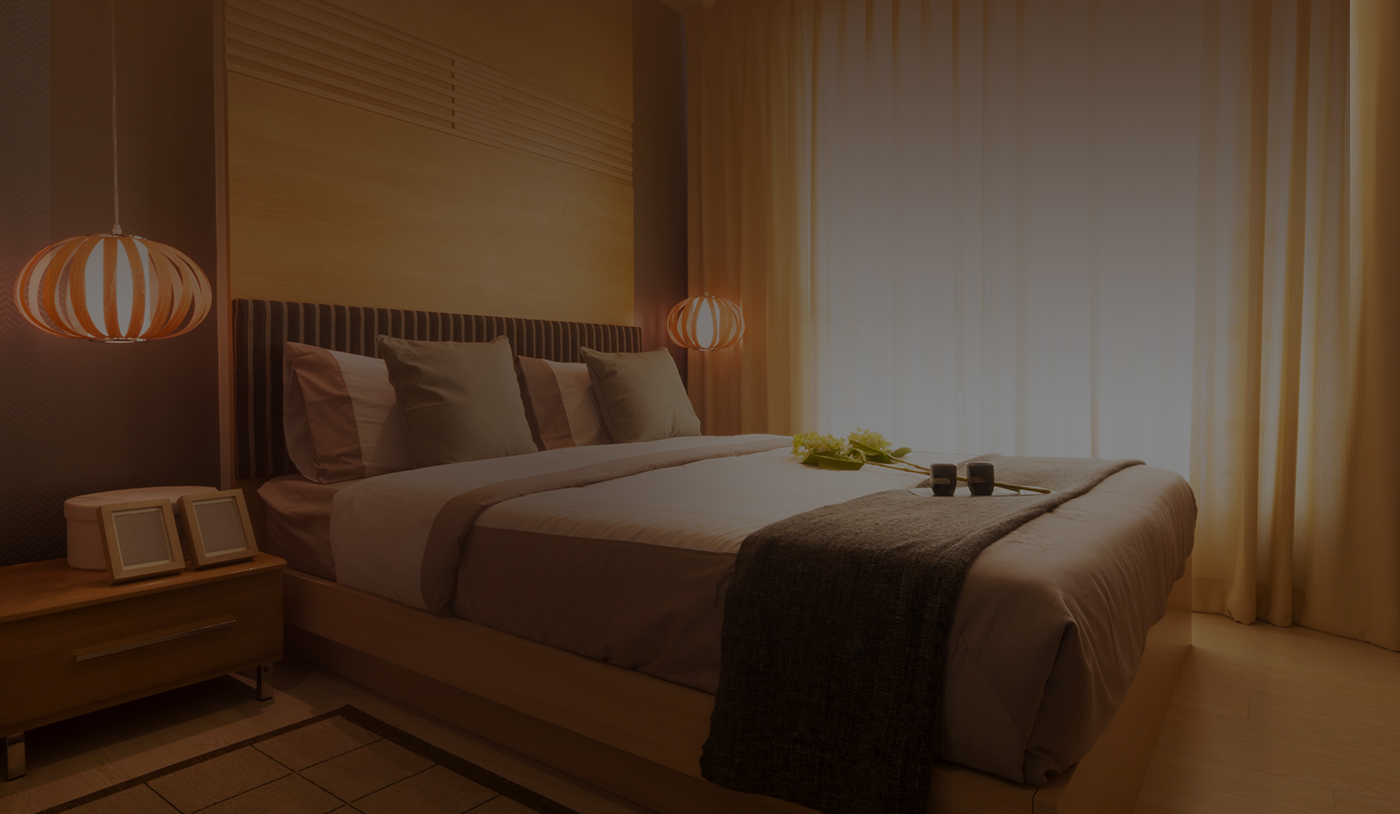
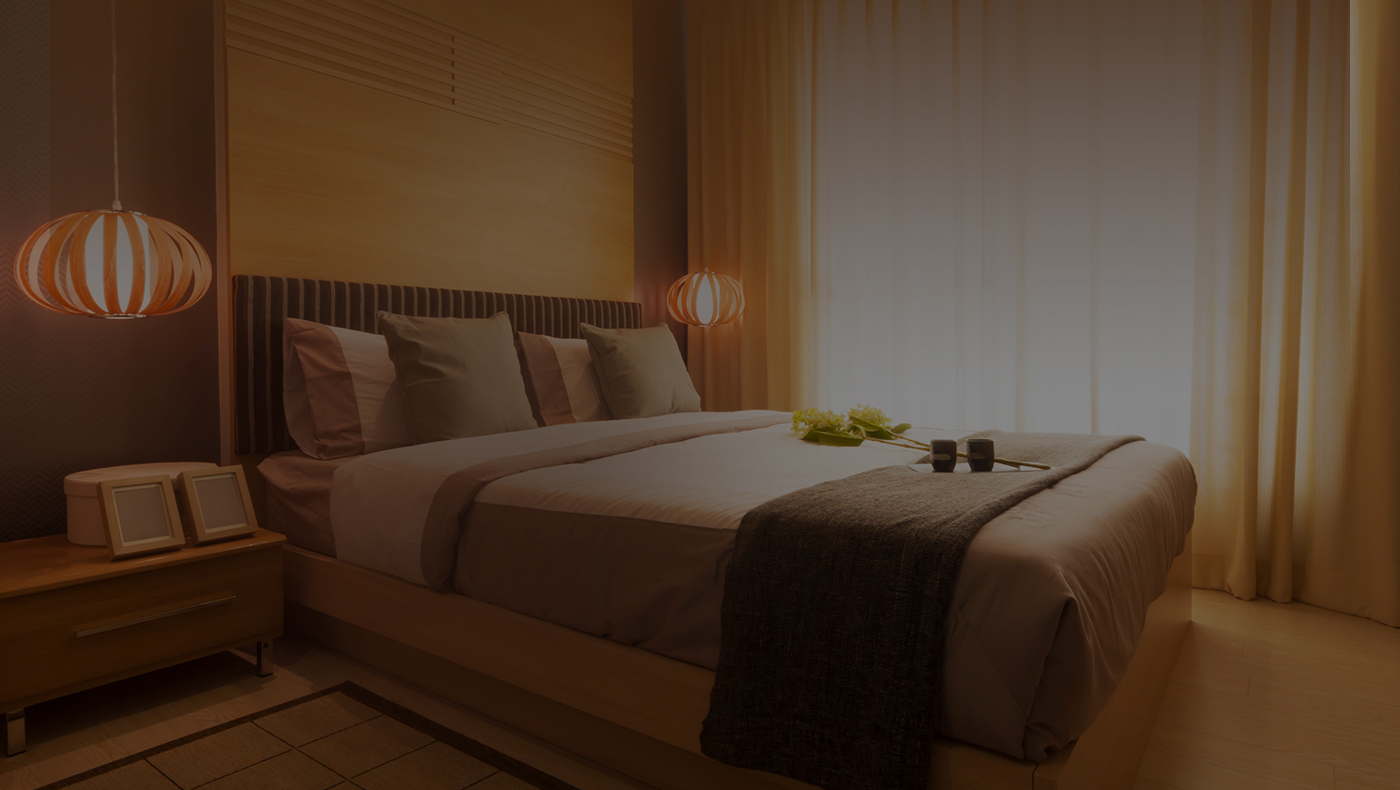
Внес небольшие правки, начал использовать pixel perfect

diff --git a/index.html b/index.html
@@ -2,45 +2,55 @@
 <html>
     <head>
         <meta charset="utf-8">
-        <link href="https://fonts.googleapis.com/css?family=Open+Sans:600" rel="stylesheet">
+        <link href="https://fonts.googleapis.com/css?family=Open+Sans:600,300" rel="stylesheet">
         <link rel="stylesheet" type="text/css" href="https://cdnjs.cloudflare.com/ajax/libs/materialize/0.98.0/css/materialize.min.css">
         <link rel="stylesheet" type="text/css" href="./less/app.css">
         <script src=""></script>
     </head>
     <body>
-        <section class="header">
-            <div class="content-wrapper">
-                <header class="top-header-element">
-                    <div class="container container-full">
-                        <div class="row">
-                            <div class="col l2">
-                                <a class="header-logo" href="/" title="beshitza.ru">
-                                    <img src="./img/tmp/logo_header.jpg">
-                                </a>
-                            </div>
-                            <div class="header-menu col l8">
-                                <navn class="menu">
-                                    <li class="item"><a href="#1">отель</a></li>
-                                    <li class="item"><a href="#1">номера</a></li>
-                                    <li class="item"><a href="#1">ресторан</a></li>
-                                    <li class="item"><a href="#1">фитнес-клуб</a></li>
-                                </navn>
-                            </div>
-                            <div class="col l2 lang-switcher">
-                                <a>
-                                    in english
-                                </a>
+        <div class="content">
+            <section class="header">
+                <div class="content-wrapper">
+                    <header class="top-header-element">
+                        <div class="container container-90">
+                            <div class="row">
+                                <div class="col l4">
+                                    <a class="header-logo" href="/" title="beshitza.ru">
+                                        <img src="./img/tmp/logo_header.jpg">
+                                    </a>
+                                </div>
+                                <div class="header-menu col l5">
+                                    <nav class="menu">
+                                        <li class="item"><a href="#1">отель</a></li>
+                                        <li class="item"><a href="#1">номера</a></li>
+                                        <li class="item"><a href="#1">ресторан</a></li>
+                                        <li class="item"><a href="#1">фитнес-клуб</a></li>
+                                    </nav>
+                                </div>
+                                <div class="lang-switcher col l3">
+                                    <a>
+                                        in english
+                                    </a>
+                                </div>
                             </div>
                         </div>
-                    </div>
-                </header>
-            </div>
-        </section>
-        <section class="main">
-            <div class="content-wrapper">
-                <img class="bg" src="./img/tmp/top-bg.jpg">
-            </div>
-        </section>
+                    </header>
+                </div>
+            </section>
+            <section class="main">
+                <div class="content-wrapper">
+                    <img class="bg" src="./img/tmp/top-bg.jpg">
+                </div>
+            </section>
+            <section class="service">
+                <div class="content-wrapper">
+                    <img class="bg" src="./img/tmp/section2-bg.jpg">
+                </div>
+            </section>
 
+        </div>
+        <footer>
+
+        </footer>
     </body>
 </html>

diff --git a/less/app.css b/less/app.css
@@ -141,8 +141,24 @@ table {
   position: relative;
   white-space: nowrap;
 }
+.top-header-element .lang-switcher {
+  font-family: "Open Sans", serif;
+  font-weight: 300;
+  text-transform: uppercase;
+  height: 50px;
+  line-height: 50px;
+  text-align: center;
+  padding-left: 132px;
+}
+.top-header-element .lang-switcher a {
+  color: white;
+  font-size: 12px;
+}
 .top-header-element .header-logo {
   font-size: 0;
+  overflow: hidden;
+  display: inline-block;
+  margin-left: 159px;
 }
 .top-header-element .header-menu {
   display: inline-block;
@@ -150,7 +166,19 @@ table {
   height: 50px;
   line-height: 50px;
   font-family: 'Open Sans', sans-serif;
+  font-weight: 600;
   text-transform: uppercase;
+  font-size: 14px;
+}
+.top-header-element .header-menu nav.menu {
+  background: none;
+  margin-left: -16px;
+}
+.top-header-element .header-menu nav.menu a {
+  font-size: 14px;
+  padding: 0 26.1px;
+  display: inline-block;
+  height: 100%;
 }
 .top-header-element .header-menu a {
   color: white;
@@ -159,11 +187,14 @@ table {
 section.header {
   background-color: #110a05;
 }
+section.main {
+  height: 772px;
+}
 .content-wrapper {
   position: relative;
   margin: 0 auto;
   font-size: 0;
-  width: 1205px;
+  width: 1400px;
 }
 .content-wrapper .container * {
   font-size: initial;
@@ -181,4 +212,13 @@ section .bg {
   position: absolute;
   top: 0;
   left: 0;
+}
+footer {
+  flex: 0 0 auto;
+}
+body > .content {
+  flex: 1 0 auto;
+}
+.container.container-90 {
+  width: 90%;
 }

diff --git a/less/include/sections/top-header.less b/less/include/sections/top-header.less
@@ -5,9 +5,26 @@
   height: @top-header-height;
   position: relative;
 
+  .lang-switcher {
+    font-family: "Open Sans", serif;
+    font-weight: 300;
+    text-transform: uppercase;
+    height: @top-header-height;
+    line-height: @top-header-height;
+    text-align: center;
+    padding-left: 132px;
+    a {
+      color: white;
+      font-size: 12px;
+    }
+  }
+
   white-space: nowrap;
   .header-logo {
     font-size: 0;
+    overflow: hidden;
+    display: inline-block;
+    margin-left: 159px;
   }
   .header-menu {
     display: inline-block;
@@ -15,7 +32,20 @@
     height: @top-header-height;
     line-height: @top-header-height;
     font-family: 'Open Sans', sans-serif;
+    font-weight: 600;
     text-transform: uppercase;
+    font-size: 14px;
+    nav.menu {
+      background: none;
+      margin-left: -16px;
+      a {
+        font-size: 14px;
+        padding: 0 26.1px;
+        display: inline-block;
+        height: 100%;
+      }
+    }
+
     a {
       color: white;
       padding: 0 20px;

diff --git a/less/include/sections/top-header.css b/less/include/sections/top-header.css
@@ -8,8 +8,24 @@
   position: relative;
   white-space: nowrap;
 }
+.top-header-element .lang-switcher {
+  font-family: "Open Sans", serif;
+  font-weight: 300;
+  text-transform: uppercase;
+  height: 50px;
+  line-height: 50px;
+  text-align: center;
+  padding-left: 132px;
+}
+.top-header-element .lang-switcher a {
+  color: white;
+  font-size: 12px;
+}
 .top-header-element .header-logo {
   font-size: 0;
+  overflow: hidden;
+  display: inline-block;
+  margin-left: 159px;
 }
 .top-header-element .header-menu {
   display: inline-block;
@@ -17,7 +33,19 @@
   height: 50px;
   line-height: 50px;
   font-family: 'Open Sans', sans-serif;
+  font-weight: 600;
   text-transform: uppercase;
+  font-size: 14px;
+}
+.top-header-element .header-menu nav.menu {
+  background: none;
+  margin-left: -16px;
+}
+.top-header-element .header-menu nav.menu a {
+  font-size: 14px;
+  padding: 0 26.1px;
+  display: inline-block;
+  height: 100%;
 }
 .top-header-element .header-menu a {
   color: white;

diff --git a/less/app.less b/less/app.less
@@ -4,6 +4,8 @@
 @import 'include/reset.less';
 @import 'include/custom';
 @import 'include/sections/top-header';
+@import 'include/sections/sections-common';
+
 
 
 .content-wrapper {
@@ -31,4 +33,16 @@ section .bg {
   position: absolute;
   top: 0;
   left: 0;
+}
+
+footer {
+  flex: 0 0 auto;
+}
+
+body > .content {
+  flex: 1 0 auto;
+}
+
+.container.container-90 {
+  width: 90%;
 }

diff --git a/less/include/sizes.less b/less/include/sizes.less
@@ -7,7 +7,7 @@
 // heights of some elements
 
 //common styles
-@large-content-width: 1205px;
+@large-content-width: 1400px;
 
 @top-header-height: 50px;
 

diff --git a/less/include/sections/sections-common.less b/less/include/sections/sections-common.less
@@ -1,0 +1,3 @@
+section.main {
+  height: 772px;
+}
